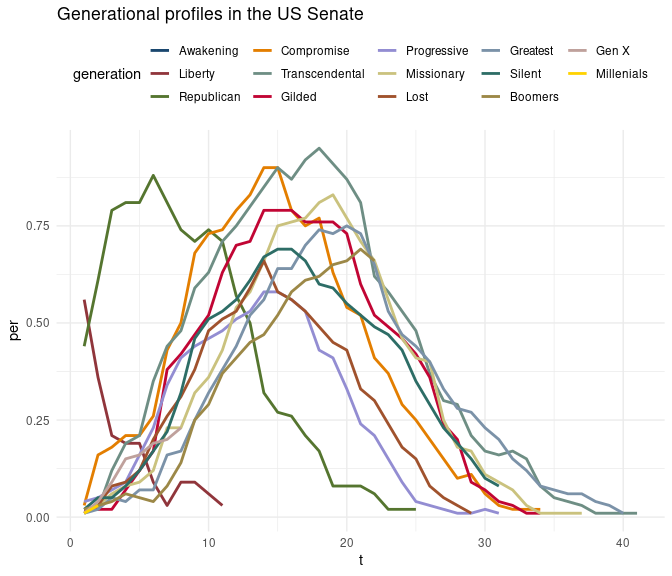
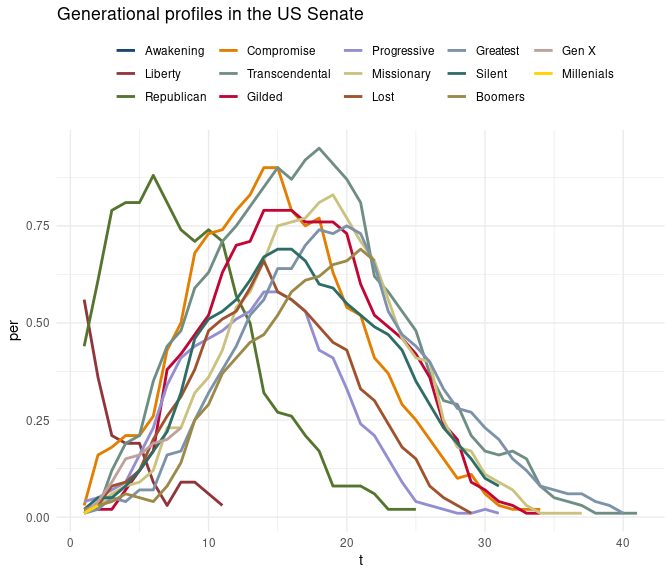
re

Changed region(s): [[0.0938, 0.0625, 0.9688, 0.1875]]

diff --git a/README.md b/README.md
@@ -184,8 +184,8 @@ vvo <- lapply(c('house', 'senate'), function(x) {
     filter(chamber != 'President') }) 
 ```
 
-    ## [1] "/tmp/RtmpqG4MHj/Hall_members.csv"
-    ## [1] "/tmp/RtmpqG4MHj/Sall_members.csv"
+    ## [1] "/tmp/RtmpyzYN5W/Hall_members.csv"
+    ## [1] "/tmp/RtmpyzYN5W/Sall_members.csv"
 
 ``` r
 congress00 <- vvo |>
@@ -866,7 +866,8 @@ sens00 |>
             size = 1) +
   ggthemes::scale_color_stata() +
   theme_minimal() +
-  theme(legend.position = 'top') +
+  theme(legend.position = 'top',
+        legend.title=element_blank()) +
   ggtitle('Generational profiles in the US Senate')
 ```
 
